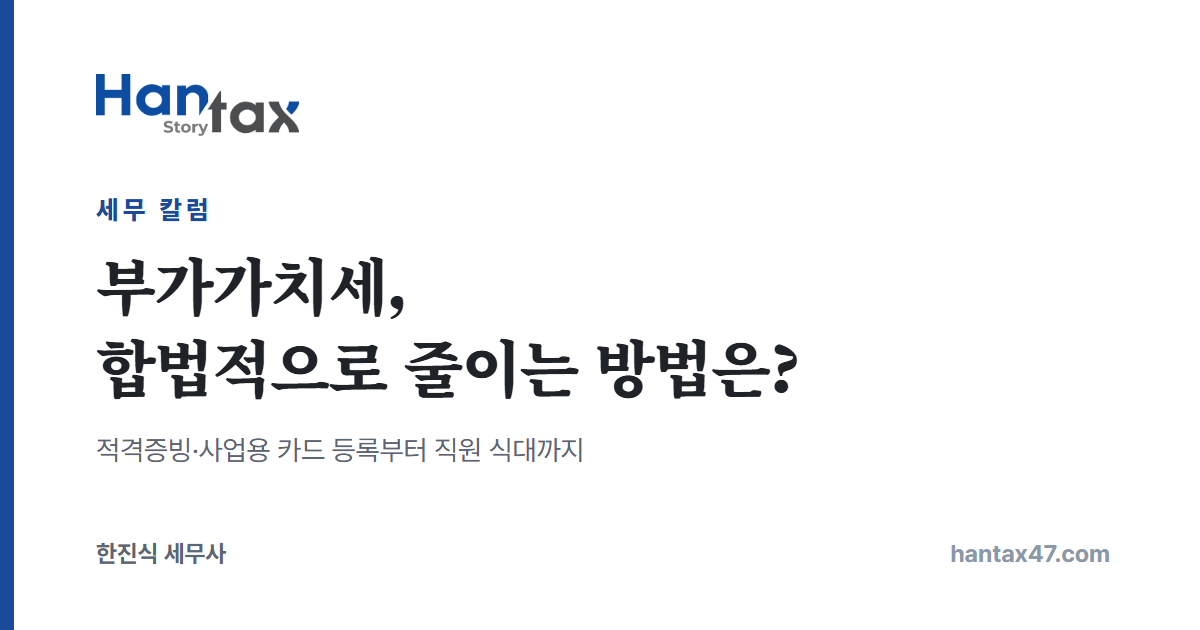
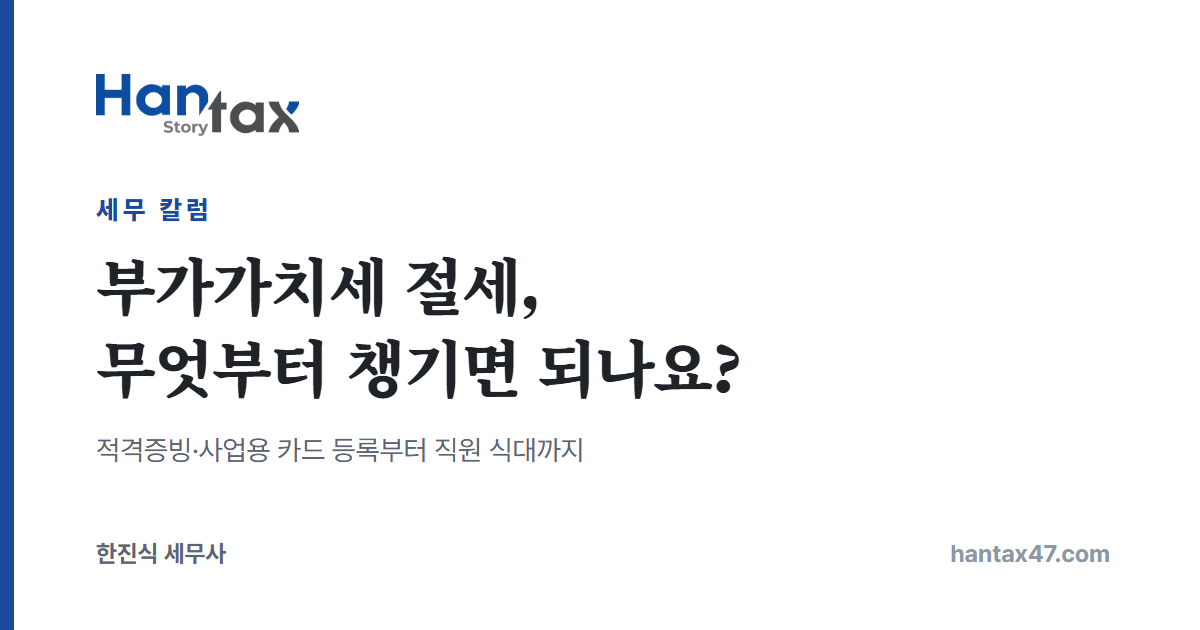
부가세 칼럼 제목을 "부가가치세 절세, 무엇부터 챙기면 되나요?"로 변경
"합법적으로 줄이는 방법"이 어색하다는 의견에 따라 제목을 절세 중심의 질문형으로 바꾸고, 핵심 답변·설명 메타·구조화 데이터의 "합법적으로 줄이는 방법은"을 "절세의 핵심은"으로, 핵심 답변 둘째 문장을 "가장 먼저 ~ 남기고"로 다듬음. 칼럼 목록 카드, llms.txt, 카드 공제·예정고지 칼럼 하단 카드, 썸네일도 새 제목으로 갱신. 주소(vat-saving-tips)는 유지.

Changed region(s): [[0.0617, 0.5429, 0.6783, 0.6333], [0.3083, 0.3921, 0.4625, 0.5127]]

diff --git a/column/vat-saving-tips.html b/column/vat-saving-tips.html
@@ -3,10 +3,10 @@
 <head>
 <meta charset="UTF-8">
 <meta name="viewport" content="width=device-width, initial-scale=1.0">
-<title>부가가치세, 합법적으로 줄이는 방법은 무엇인가요? | 한택스 세무 칼럼</title>
-<meta name="description" content="부가가치세를 합법적으로 줄이는 방법은 받을 수 있는 매입세액공제를 빠짐없이 받는 것입니다. 적격증빙 수취, 홈택스 사업용 카드 등록, 사업자번호 현금영수증, 공과금 명의 변경, 직원 식대, 공제되는 차량, 간이과세자 확인, 빠진 세금계산서 점검과 환급 소명 준비까지 반기 매출 2억 원 도소매업 사례로 약 260만 원 차이를 정리했습니다.">
+<title>부가가치세 절세, 무엇부터 챙기면 되나요? | 한택스 세무 칼럼</title>
+<meta name="description" content="부가가치세 절세의 핵심은 받을 수 있는 매입세액공제를 빠짐없이 받는 것입니다. 적격증빙 수취, 홈택스 사업용 카드 등록, 사업자번호 현금영수증, 공과금 명의 변경, 직원 식대, 공제되는 차량, 간이과세자 확인, 빠진 세금계산서 점검과 환급 소명 준비까지 반기 매출 2억 원 도소매업 사례로 약 260만 원 차이를 정리했습니다.">
 <link rel="canonical" href="https://www.hantax47.com/column/vat-saving-tips.html">
-<meta property="og:title" content="부가가치세, 합법적으로 줄이는 방법은 무엇인가요?">
+<meta property="og:title" content="부가가치세 절세, 무엇부터 챙기면 되나요?">
 <meta property="og:description" content="적격증빙, 홈택스 사업용 카드 등록, 직원 식대, 공제되는 차량까지. 반기 매출 2억 원 도소매업 사례로 놓친 공제 약 260만 원을 정리했습니다.">
 <meta property="og:type" content="article">
 <meta property="og:url" content="https://www.hantax47.com/column/vat-saving-tips.html">
@@ -17,9 +17,9 @@
 {
   "@context":"https://schema.org",
   "@type":"Article",
-  "headline":"부가가치세, 합법적으로 줄이는 방법은 무엇인가요?",
+  "headline":"부가가치세 절세, 무엇부터 챙기면 되나요?",
   "image":"https://www.hantax47.com/assets/og/column-vat-saving-tips.png",
-  "description":"부가가치세는 매출세액에서 매입세액을 빼서 계산하므로, 합법적으로 줄이는 방법은 공제받을 수 있는 매입세액을 빠짐없이 받는 것입니다. 세금계산서·신용카드·현금영수증 같은 적격증빙을 받고, 개인사업자는 홈택스에 사업용 신용카드를 등록해 사용 내역이 자동으로 공제에 반영되게 하며, 현금영수증은 사업자번호로 받습니다. 통신비·전기요금 등은 사업자 명의로 바꾸고, 급여 신고한 직원의 식대와 경차·9인승 이상 승합차·화물차 관련 비용을 공제받습니다. 간이과세자와의 거래, 빠진 세금계산서를 분기마다 확인하고, 음식점·제조업은 의제매입세액공제를, 소매·음식·숙박업 개인사업자는 신용카드 발행세액공제를 챙깁니다. 환급을 받을 때는 세무서 소명 요청에 대비해 계좌이체 내역과 계약서를 준비해야 합니다. 반기 매출 2억 원인 개인 도소매업은 이를 챙기면 부가세가 800만 원에서 540만 원으로 약 260만 원 줄어듭니다.",
+  "description":"부가가치세는 매출세액에서 매입세액을 빼서 계산하므로, 절세의 핵심은 공제받을 수 있는 매입세액을 빠짐없이 받는 것입니다. 세금계산서·신용카드·현금영수증 같은 적격증빙을 받고, 개인사업자는 홈택스에 사업용 신용카드를 등록해 사용 내역이 자동으로 공제에 반영되게 하며, 현금영수증은 사업자번호로 받습니다. 통신비·전기요금 등은 사업자 명의로 바꾸고, 급여 신고한 직원의 식대와 경차·9인승 이상 승합차·화물차 관련 비용을 공제받습니다. 간이과세자와의 거래, 빠진 세금계산서를 분기마다 확인하고, 음식점·제조업은 의제매입세액공제를, 소매·음식·숙박업 개인사업자는 신용카드 발행세액공제를 챙깁니다. 환급을 받을 때는 세무서 소명 요청에 대비해 계좌이체 내역과 계약서를 준비해야 합니다. 반기 매출 2억 원인 개인 도소매업은 이를 챙기면 부가세가 800만 원에서 540만 원으로 약 260만 원 줄어듭니다.",
   "datePublished":"2026-10-21",
   "dateModified":"2026-10-21",
   "inLanguage":"ko",
@@ -69,7 +69,7 @@
 <main>
 <article class="article">
   <div class="crumb"><a href="../">홈</a> › <a href="./">세무 칼럼</a> › 부가가치세</div>
-  <h1>부가가치세, 합법적으로 줄이는 방법은 무엇인가요?</h1>
+  <h1>부가가치세 절세, 무엇부터 챙기면 되나요?</h1>
   <div class="meta">
     <span>부가가치세</span>
     <span><a href="../about/" style="color:inherit">한진식 세무사</a></span>
@@ -79,7 +79,7 @@
 
   <div class="answer">
     <b>핵심 답변</b>
-    부가가치세는 "매출세액 − 매입세액"이라서, 합법적으로 줄이는 방법은 <b>받을 수 있는 매입세액공제를 빠짐없이 받는 것</b>입니다. 사업 관련 지출은 세금계산서·신용카드·현금영수증 같은 적격증빙으로 남기고, 개인사업자는 <b>홈택스에 사업용 카드를 등록</b>해 작은 금액도 놓치지 않게 하세요. 공과금·통신비를 사업자 명의로 바꾸고 직원 식대와 빠진 세금계산서까지 챙기면, 반기 매출 2억 원인 도소매업에서 <b>약 260만 원</b>이 줄어듭니다. 공제가 커서 환급을 받게 되면 세무서 소명 요청에 대비해 <b>계좌이체 내역과 계약서</b>를 준비해 두어야 합니다.
+    부가가치세는 "매출세액 − 매입세액"이라서, 절세의 핵심은 <b>받을 수 있는 매입세액공제를 빠짐없이 받는 것</b>입니다. 가장 먼저 사업 관련 지출을 세금계산서·신용카드·현금영수증 같은 적격증빙으로 남기고, 개인사업자는 <b>홈택스에 사업용 카드를 등록</b>해 작은 금액도 놓치지 않게 하세요. 공과금·통신비를 사업자 명의로 바꾸고 직원 식대와 빠진 세금계산서까지 챙기면, 반기 매출 2억 원인 도소매업에서 <b>약 260만 원</b>이 줄어듭니다. 공제가 커서 환급을 받게 되면 세무서 소명 요청에 대비해 <b>계좌이체 내역과 계약서</b>를 준비해 두어야 합니다.
   </div>
 
   <p>"매출은 비슷한데 부가세가 왜 이렇게 많이 나오죠?"</p>

diff --git a/column/index.html b/column/index.html
@@ -62,7 +62,7 @@
     <div class="post-list" data-per="9">
       <a href="vat-saving-tips.html" class="post">
         <div class="cat">부가가치세</div>
-        <h2>부가가치세, 합법적으로 줄이는 방법은 무엇인가요?</h2>
+        <h2>부가가치세 절세, 무엇부터 챙기면 되나요?</h2>
         <p>부가세 절세는 받을 수 있는 공제를 빠짐없이 받는 것입니다. 적격증빙, 홈택스 사업용 카드 등록, 사업자번호 현금영수증, 공과금 명의 변경, 직원 식대, 공제되는 차량과 환급 소명 준비까지, 반기 매출 2억 원 도소매업 사례로 약 260만 원 차이를 정리했습니다.</p>
         <time datetime="2026-10-21">2026.10.21 · 한진식 세무사</time>
       </a>

diff --git a/column/vat-card-credit.html b/column/vat-card-credit.html
@@ -232,7 +232,7 @@
     <a href="../tools/vat.html"><span>세금계산기</span><b>부가가치세, 이번에 얼마나 나올까요?</b></a>
     <a href="../tools/business-car.html"><span>세금계산기</span><b>업무용 자동차, 실제 비용은 얼마일까요?</b></a>
     <a href="../tools/car-choice.html"><span>세금계산기</span><b>업무용 자동차, 어떻게 사는 게 맞을까요?</b></a>
-    <a href="vat-saving-tips.html"><span>세무 칼럼</span><b>부가가치세, 합법적으로 줄이는 방법은 무엇인가요?</b></a>
+    <a href="vat-saving-tips.html"><span>세무 칼럼</span><b>부가가치세 절세, 무엇부터 챙기면 되나요?</b></a>
   </div>
 </article>
 </main>

diff --git a/column/vat-preliminary-notice.html b/column/vat-preliminary-notice.html
@@ -145,7 +145,7 @@
   <div class="more">
     <a href="../tools/vat.html"><span>세금계산기</span><b>부가가치세, 이번에 얼마나 나올까요?</b></a>
     <a href="../tools/income-tax.html"><span>세금계산기</span><b>종합소득세, 올해 얼마나 나올까요?</b></a>
-    <a href="vat-saving-tips.html"><span>세무 칼럼</span><b>부가가치세, 합법적으로 줄이는 방법은 무엇인가요?</b></a>
+    <a href="vat-saving-tips.html"><span>세무 칼럼</span><b>부가가치세 절세, 무엇부터 챙기면 되나요?</b></a>
   </div>
 </article>
 </main>
